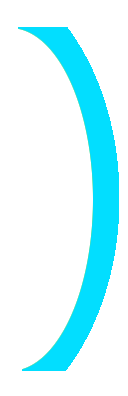
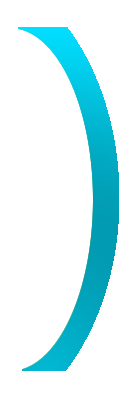
updated UI

diff --git a/Assets/Script/ChiBarDisplay.cs b/Assets/Script/ChiBarDisplay.cs
@@ -21,7 +21,9 @@ public class ChiBarDisplay : MonoBehaviour {
     public CameraScript cams;
 
 	// Use this for initialization
-	void Start () {
+	void Start ()
+    {
+        currentOnElement = 2;
 	}
 	
 	// Update is called once per frame
@@ -76,7 +78,7 @@ public class ChiBarDisplay : MonoBehaviour {
         element.SetActive(true);
         elementOn = true;
         cams.UIOn = true;
-        HighlightElement(2);
+        HighlightElement(currentOnElement);
     }
 
     public void HideElement()
@@ -95,7 +97,8 @@ public class ChiBarDisplay : MonoBehaviour {
 
     void ResetElement()
     {
-        element.transform.GetChild(currentOnElement).GetComponent<Image>().color = new Color32(150, 150, 150, 255);
+        element.transform.GetChild(currentOnElement).GetComponent<Image>().color = new Color32(150, 150, 150, 130);
     }
+
 
 }

diff --git a/Assets/Script/CombatControl.cs b/Assets/Script/CombatControl.cs
@@ -91,7 +91,7 @@ public class CombatControl : MonoBehaviour {
 
         if (Input.GetKeyDown(KeyCode.Alpha2))
         {
-            if (!attr.chiOn || !attr.UseChiSpell(1) || cams.GetAimingTarget() == null)
+            if (!attr.chiOn || cams.GetAimingTarget() == null || !attr.UseChiSpell(1))
                 return;
             state.twineTarget = cams.GetAimingTarget();
             animator.SetTrigger("twinespell");

diff --git a/Assets/Script/EnemyAttributes.cs b/Assets/Script/EnemyAttributes.cs
@@ -27,7 +27,7 @@ public class EnemyAttributes : MonoBehaviour {
     public bool isBlocking;
 
     static Color32 highlightColor = new Color32(255, 255, 255, 255);
-    static Color32 defaultColor = new Color32(150, 150, 150, 255);
+    static Color32 defaultColor = new Color32(150, 150, 150, 130);
 
     // Use this for initialization
     void Start()
